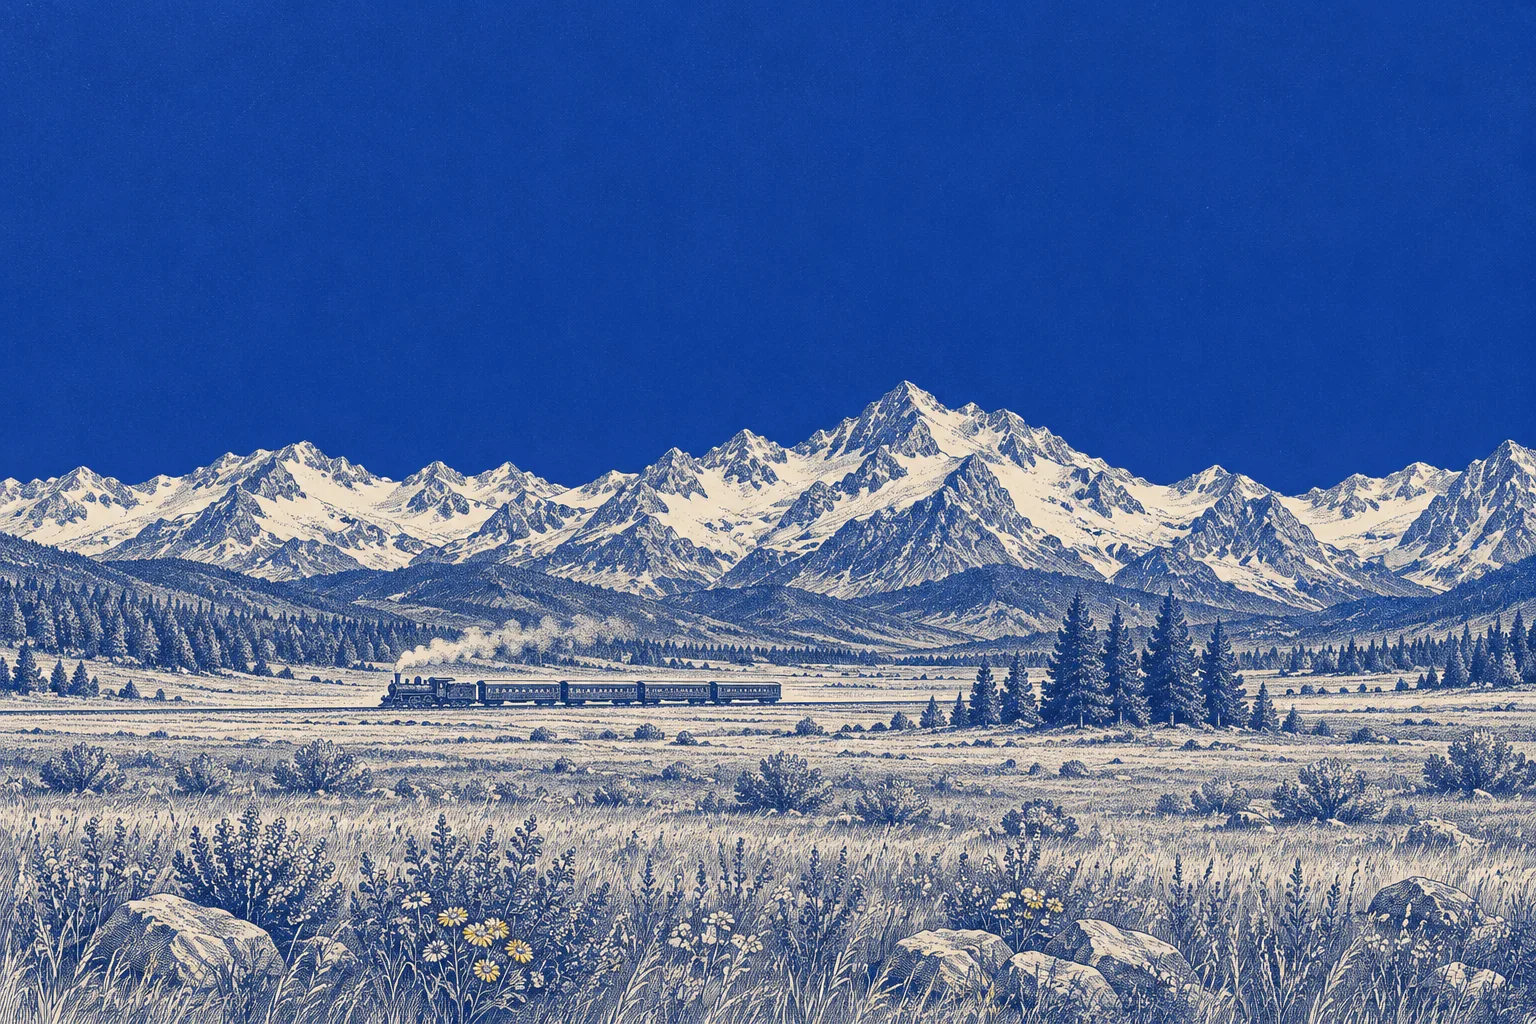
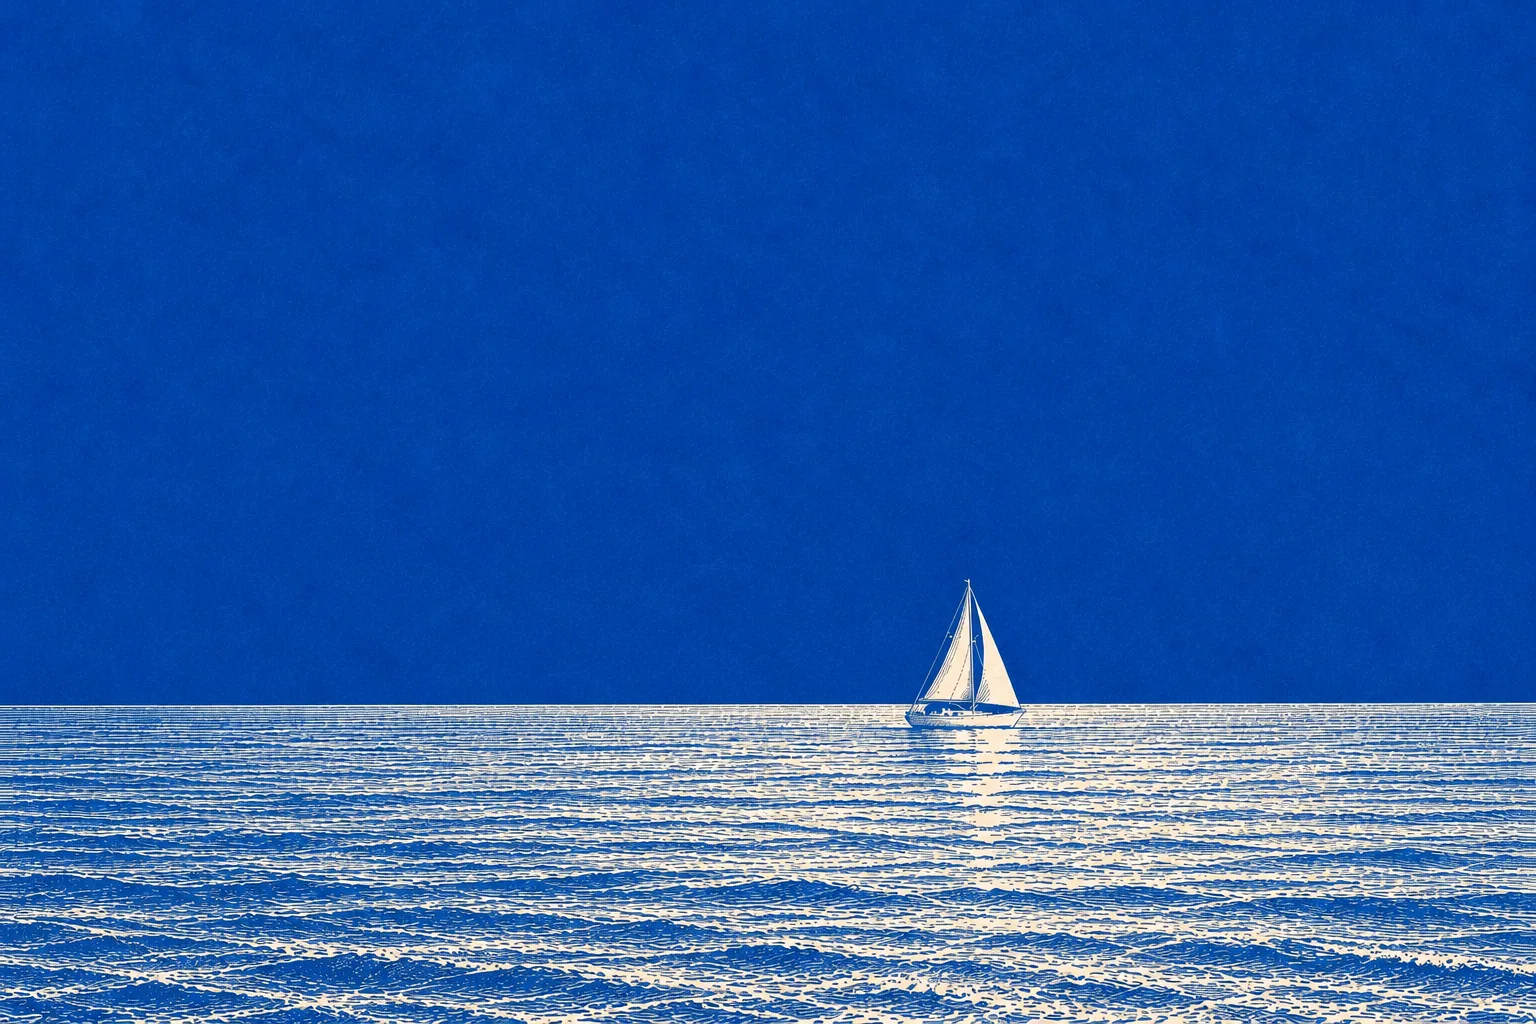
feat: Home 그림을 판화 바다+요트 하나로 (Oil 옵션 제거) + WORKLOG

diff --git a/index.html b/index.html
@@ -11514,13 +11514,12 @@
   </header>
 
   <div class="pt-16 flex-1">
-  <!-- ═══════ Home: 그림 한 장 + 전체 섹션 (그림은 Codex 생성, assets/home/) ═══════ -->
+  <!-- ═══════ Home: 그림 한 장 + 전체 섹션 (그림: assets/home/home-ink.webp 판화 바다 — Codex 생성) ═══════ -->
   <style>
     /* Home은 상단바·여백 없이 그림이 화면 전체를 채움 (body.atl-on-home 은 navigate()가 붙임) */
     body.atl-on-home #main-header{display:none}
     #page-home{position:fixed;inset:0;z-index:30;overflow-y:auto}
-    .atl-home{position:relative;min-height:100vh;min-height:100dvh;display:flex;flex-direction:column;color:#fff;font-family:'Plus Jakarta Sans','Pretendard',sans-serif;background:#12429e url('assets/home/home-ink.webp') center 18%/cover no-repeat}
-    .atl-home[data-art="oil"]{background-color:#073bca;background-image:url('assets/home/home-oil.webp')}
+    .atl-home{position:relative;min-height:100vh;min-height:100dvh;display:flex;flex-direction:column;color:#fff;font-family:'Plus Jakarta Sans','Pretendard',sans-serif;background:#0142a7 url('assets/home/home-ink.webp') center bottom/cover no-repeat}
     .atl-home-tools{position:absolute;top:18px;right:20px;display:flex;gap:4px;z-index:2}
     .atl-home-tools button{width:40px;height:40px;display:grid;place-items:center;border:0;border-radius:12px;background:transparent;color:rgba(255,255,255,0.8);cursor:pointer;transition:background .15s,color .15s}
     .atl-home-tools button:hover{background:rgba(255,255,255,0.14);color:#fff}
@@ -11533,12 +11532,8 @@
     .atl-home-col h4{font-family:'Plus Jakarta Sans','Pretendard',sans-serif;font-size:14px;font-weight:700;margin-bottom:14px;color:#fff}
     .atl-home-col a{display:block;padding:4px 0;font-size:14.5px;line-height:1.5;color:rgba(255,255,255,0.72);text-decoration:none;transition:color .15s}
     .atl-home-col a:hover{color:#fff}
-    .atl-home-switch{display:inline-flex;gap:2px;padding:2px;border-radius:999px;background:rgba(255,255,255,0.14)}
-    .atl-home-switch button{border:0;background:transparent;color:rgba(255,255,255,0.75);font:inherit;font-size:11.5px;padding:4px 12px;border-radius:999px;cursor:pointer}
-    .atl-home-switch button.on{background:#fff;color:#12429e;font-weight:700}
     @media (max-width:900px){
-      .atl-home{padding-bottom:340px;background:url('assets/home/home-ink.webp') 30% bottom/240% auto no-repeat,#12429e}
-      .atl-home[data-art="oil"]{background:url('assets/home/home-oil.webp') 30% bottom/240% auto no-repeat,url('assets/home/home-oil.webp') 20% top/auto 1500px no-repeat,#073bca}
+      .atl-home{padding-bottom:300px;background:url('assets/home/home-ink.webp') 62% bottom/240% auto no-repeat,#0142a7}
       .atl-home-tools{top:10px;right:10px}
       .atl-home-top{grid-template-columns:repeat(2,1fr);gap:24px 20px;padding:56px 24px 0}
       .atl-home-top>div:first-child{grid-column:1/-1}
@@ -11546,7 +11541,7 @@
   </style>
   <div id="page-home" class="page" style="display:block">
     <div class="atl-home-wrap">
-      <section class="atl-home" id="atl-home" data-art="ink">
+      <section class="atl-home" id="atl-home">
         <div class="atl-home-tools">
           <button type="button" aria-label="메뉴" onclick="event.preventDefault();event.stopPropagation();toggleSidebar()"><span class="material-symbols-outlined">menu</span></button>
           <button type="button" aria-label="설정" onclick="openSettingsPanel()"><span class="material-symbols-outlined">settings</span></button>
@@ -11557,10 +11552,6 @@
             <p class="atl-home-desc">하루를 기록하고, 돈과 여행과 배움을 한곳에서 가꾸는 나만의 작업실.</p>
             <p class="atl-home-date" id="atl-home-date"></p>
             <div class="atl-home-meta">
-              <span class="atl-home-switch" role="group" aria-label="그림 바꾸기">
-                <button type="button" data-art="oil" onclick="atlHomeArt('oil')">Oil</button>
-                <button type="button" data-art="ink" onclick="atlHomeArt('ink')">Ink</button>
-              </span>
               <span>© 2026 Nuri</span>
             </div>
           </div>
@@ -11596,16 +11587,7 @@
     </div>
   </div>
   <script>
-    function atlHomeArt(v){
-      var el=document.getElementById('atl-home'); if(!el) return;
-      if(v!=='oil') v='ink';
-      el.setAttribute('data-art',v);
-      el.querySelectorAll('.atl-home-switch button').forEach(function(b){ b.classList.toggle('on', b.getAttribute('data-art')===v); });
-      try{ localStorage.setItem('atelier-home-art',v); }catch(e){}
-    }
     (function(){
-      var v='ink'; try{ v=localStorage.getItem('atelier-home-art')||'ink'; }catch(e){}
-      atlHomeArt(v);
       var d=new Date(), M=['January','February','March','April','May','June','July','August','September','October','November','December'], D=['Sun','Mon','Tue','Wed','Thu','Fri','Sat'];
       var el=document.getElementById('atl-home-date'); if(el) el.textContent=D[d.getDay()]+', '+M[d.getMonth()]+' '+d.getDate()+' '+d.getFullYear();
     })();

diff --git a/service-worker.js b/service-worker.js
@@ -1,4 +1,4 @@
-const CACHE_NAME = 'atelier-v600';
+const CACHE_NAME = 'atelier-v601';
 const urlsToCache = [
   '/the-atelier/',
   '/the-atelier/index.html',

diff --git a/WORKLOG.md b/WORKLOG.md
@@ -1,3 +1,12 @@
+## 2026-10-18 · 아이맥 · Home 그림 → 판화 바다+요트 하나로 확정
+
+- 누리: 침엽수·기차·들판은 너무 아날로그·가상 느낌 → 단순·깔끔하게. 후보 6장(바다+요트 / 흰 벽+올리브 / 모래 사구 × Ink·Oil) 중 판화 바다 선택, 하늘 더 넓게·바위 빼기로 다시 그림
+- `assets/home/home-ink.webp`: 코발트 블루+크림 판화, 수평선 72% 위치, 요트 하나(가로 62%). Codex 가 앞 그림을 참고로 다시 그림
+- Oil 그림·Oil/Ink 스위치·`atlHomeArt`·localStorage `atelier-home-art` 삭제. 배경색 #0142a7(그림 하늘색). 데스크톱은 cover + 아래 기준, 900px 이하는 62% 위치·240% 확대
+- CACHE_NAME v601
+
+---
+
 ## 2026-10-18 · 아이맥 · 새 Home — 그림이 화면 전체를 채우는 첫 화면 (판화 Ink / 유화 Oil)
 
 - 누리: 대시보드 아래 푸터 말고, 그림을 화면 전체로 쓰는 홈으로. 그 안에 섹션 링크 전부. 감성 노을·조각상 싫음 → 모티브는 설산·침엽수·기차
